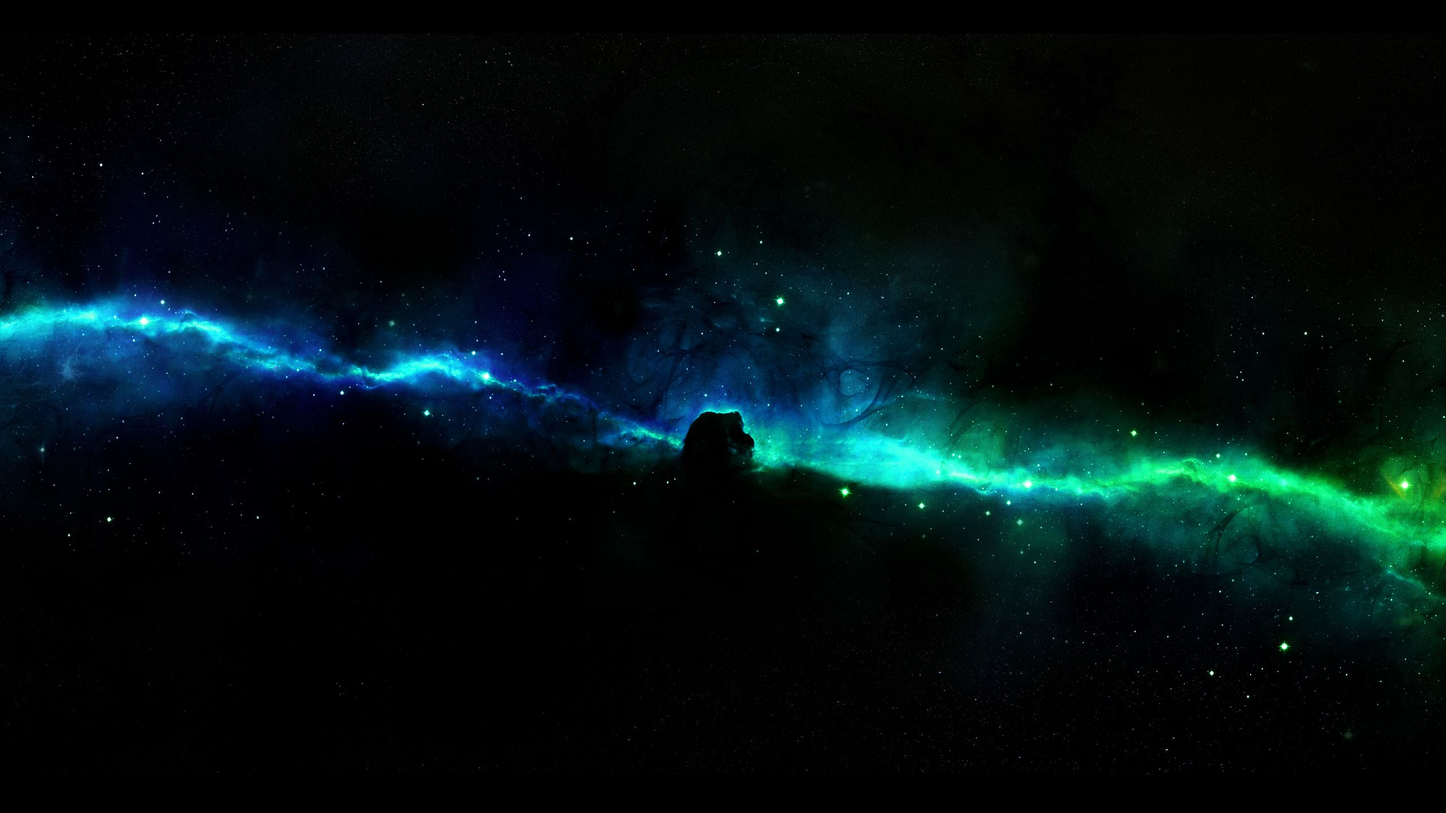
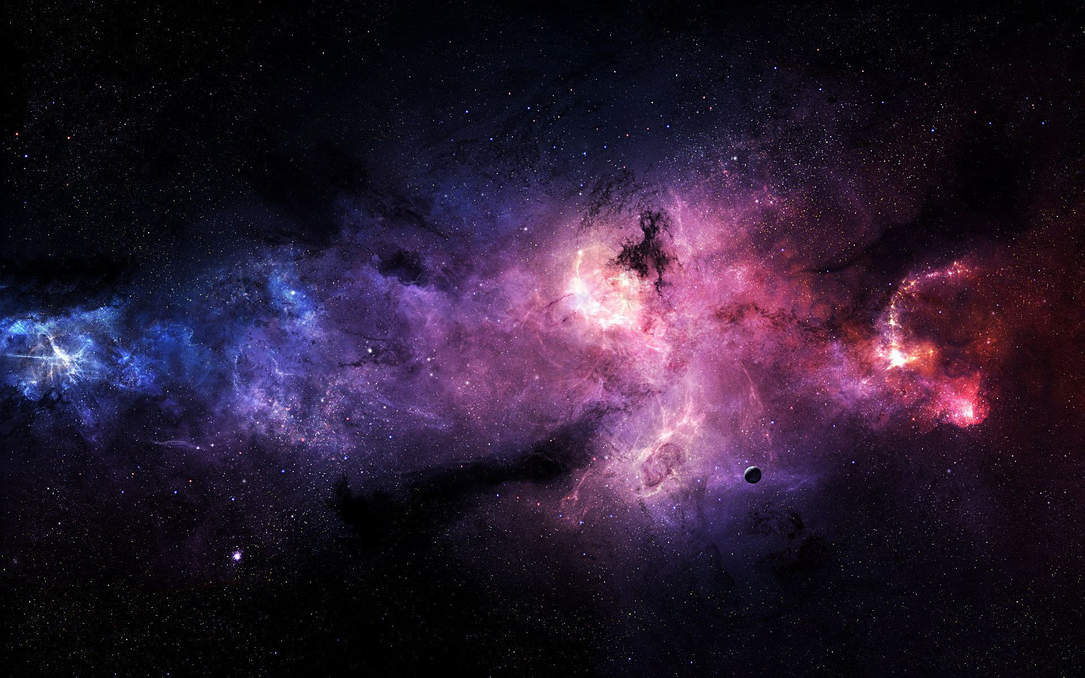
added initial nebula skin

diff --git a/coastal/README.md b/coastal/README.md
@@ -1,0 +1,36 @@
+# hubitat-dashboard
+
+Hubitat Dashboard UI tweaks - a collection of modern "skins" for Hubitat Dashboard.  
+
+- *smartly* - loosely based on the modern SmartThings app, with some direction from ActionTiles Slate skin.
+
+### Getting Started
+
+As there isn't an actual 'skin' system for Hubitat Dashboard, the easiest way to use these skins is to create a new dashboard then following the copy and paste instructions.  If you would like to keep your existing tiles, you'll need to backup your "tiles:[]" data from your existing JSON, and replace the empty "tiles:[]" line in our JSON.
+
+### Installing
+
+- Copy and paste the contents of .json into Options > Advanced > Layout then 'Save JSON'.
+- Copy and paste the contents of .css into Options > Advanced > CSS then 'Save CSS'.
+
+### Updating color templates
+
+- Copy and paste ```"customColors": []``` from the .json and paste into and clobber ```"customColors": []``` section of Options > Advanced > Layout then 'Save JSON'.
+
+### Fonts and Background Images
+
+To truly have everything under one roof, you'll need to host the /assets folder locally and update your css and json to reflect the local url of those files.   Font references are at the start of the CSS file, and background image is at the end of the JSON.
+
+## TODO
+
+- As-is when viewing a dashboard on a computer monitor, tablet or phone, the icons tend to appear larger on the smaller device (depending on device resolution).  The 'auto-zoom' branch will contain the development of CSS media queries, setting appropriate zoom based on device pixel width.  This should assist in making a dashboard useable between devices.
+
+
+## Changelog
+
+- *smartly*
+> 1/15/2020 - Initial commit
+
+## Authors
+
+* **Eli Altman** - *Initial work* - smartly
